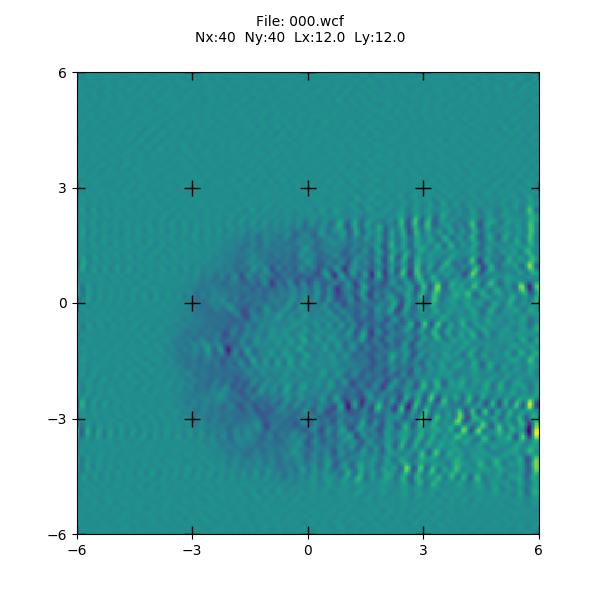
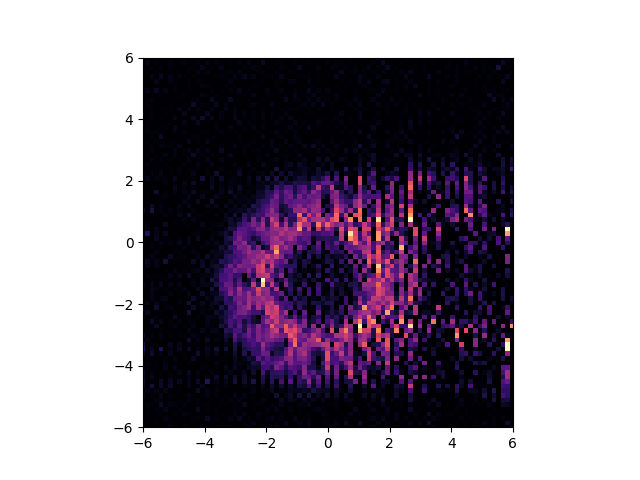
Added myplot.py and produced publication-ready plots

diff --git a/myplot.py b/myplot.py
@@ -1,0 +1,107 @@
+#!/usr/bin/python3
+import wire
+import matplotlib.pyplot as plt
+import matplotlib.colors as colors
+import os
+
+# This is an example script that uses the wire module to create more
+# sophisticated plots.  Since plotting publication quality plots is 
+# such an iterative process, the intent is for users to be able to edit
+# this script as needed to achieve the results they want.  Parameters
+# that will need to be edited are commented with a ===> above them to
+# draw attention.
+
+# ===> List the source coefficient files and their meta data
+# ===> The STASH directory is a kind of working directory where the results
+# ===> of prior WSOLVE runs can be "stashed".  
+stashdir = 'stash/run2'
+files = ['000.wcf', '001.wcf', '002.wcf', '003.wcf', '004.wcf']
+titles = ['z = 1.0mm', 'z = 1.5mm', 'z = 2.0mm', 'z = 2.5mm', 'z = 3.0mm']
+unit_length = 'mm'
+
+# ===>  Create the plot with subplots
+# ===>  If users want to change the number of plots, they will also want to 
+# ===>  change the subplot arrangement and figure size
+nrows = 3           # Number of rows in the subplot array
+ncols = 2           # Number of columns in the subplot array
+figsize = (6.5,9)   # Width, Height (in)
+fig,axs = plt.subplots(nrows,ncols,sharex=True,sharey=True,figsize=figsize)
+
+# ===>  These options deal with how the plot appears
+# ===>  The current measurement is negative, but many colormaps produce
+# ===>  A more meaningful result if the maximum is positive.  These options
+# ===>  allow you to invert the signal or choose a different color map
+# ===>  See https://matplotlib.org/stable/tutorials/colors/colormaps.html
+invert = True       # Should the negative current be plotted as positive signal?
+cmap = 'inferno'
+
+
+# Next, we'll load all of the image data from the files listed
+# Users probably won't need to edit this part at all
+row = 0
+col = 0
+vmin = float('inf')
+vmax = float('-inf')
+pcms = []
+index = 0
+for fn,title in zip(files, titles):
+    filename = os.path.join(stashdir, fn)
+    
+    # Get the row and column
+    row = index // ncols
+    col = index % ncols
+    
+    # Load the file and generate x,y,I data
+    x,y,I = wire.WireCoefficients(filename).grid()
+    # If we're inverting the colors axis, do it now
+    if invert:
+        I = -I
+    
+    # Detect the data range - we'll use these later
+    vmin = min(vmin, I.min())
+    vmax = max(vmax, I.max())
+    
+    ax = axs[row,col]
+    
+    # Generate the plot
+    # Stash the pcolormesh for later
+    pcms.append(ax.pcolormesh(x,y,I,cmap=cmap))
+    # Apply the label
+    if title:
+        ax.text(x.min()+1,y.max()-1,title,color='w',ha='left',va='bottom',zorder=1000)
+        
+        # ax.set_title(title)
+    # Clear the inner ticks and apply a unit
+    
+    index += 1
+
+# Remove the remaining axes
+for index in range(index,ncols*nrows):
+    row = index // ncols
+    col = index % ncols
+    axs[row,col].remove()
+
+# Clip the max/min based on the inversion setting    
+if invert:
+    vmin = 0
+    print('scale:', vmax)
+else:
+    vmax = 0
+    print('scale:', vmin)
+# Re-normalize all of the plots to share the same color scale
+norm = colors.Normalize(vmin,vmax, clip=True)
+for pcm in pcms:
+    pcm.set(norm=norm)
+    
+# Set unit length labels
+for row in range(nrows):
+    axs[row,0].set_ylabel(unit_length)
+for col in range(ncols):
+    axs[nrows-1,col].set_xlabel(unit_length)
+    
+# Make everything snug
+fig.tight_layout()
+
+# Finish
+filename = os.path.join(stashdir,'myplot.png')
+fig.savefig(filename)

diff --git a/wire.py b/wire.py
@@ -352,7 +352,7 @@ Uses the complex coefficients to construct the inverse FFT
         y = np.linspace(-self.L[1]/2, self.L[1]/2, 2*self.N[1]+1)
         x,y = np.meshgrid(x,y)
         
-        I = np.fft.ifft2(self.get_fft2()).real
+        I = np.fft.ifft2(self.get_fft2(), norm='forward').real
         
         # Swap the rows around
         I[:self.N[0]+1, :] = I[self.N[0]::-1, :]
